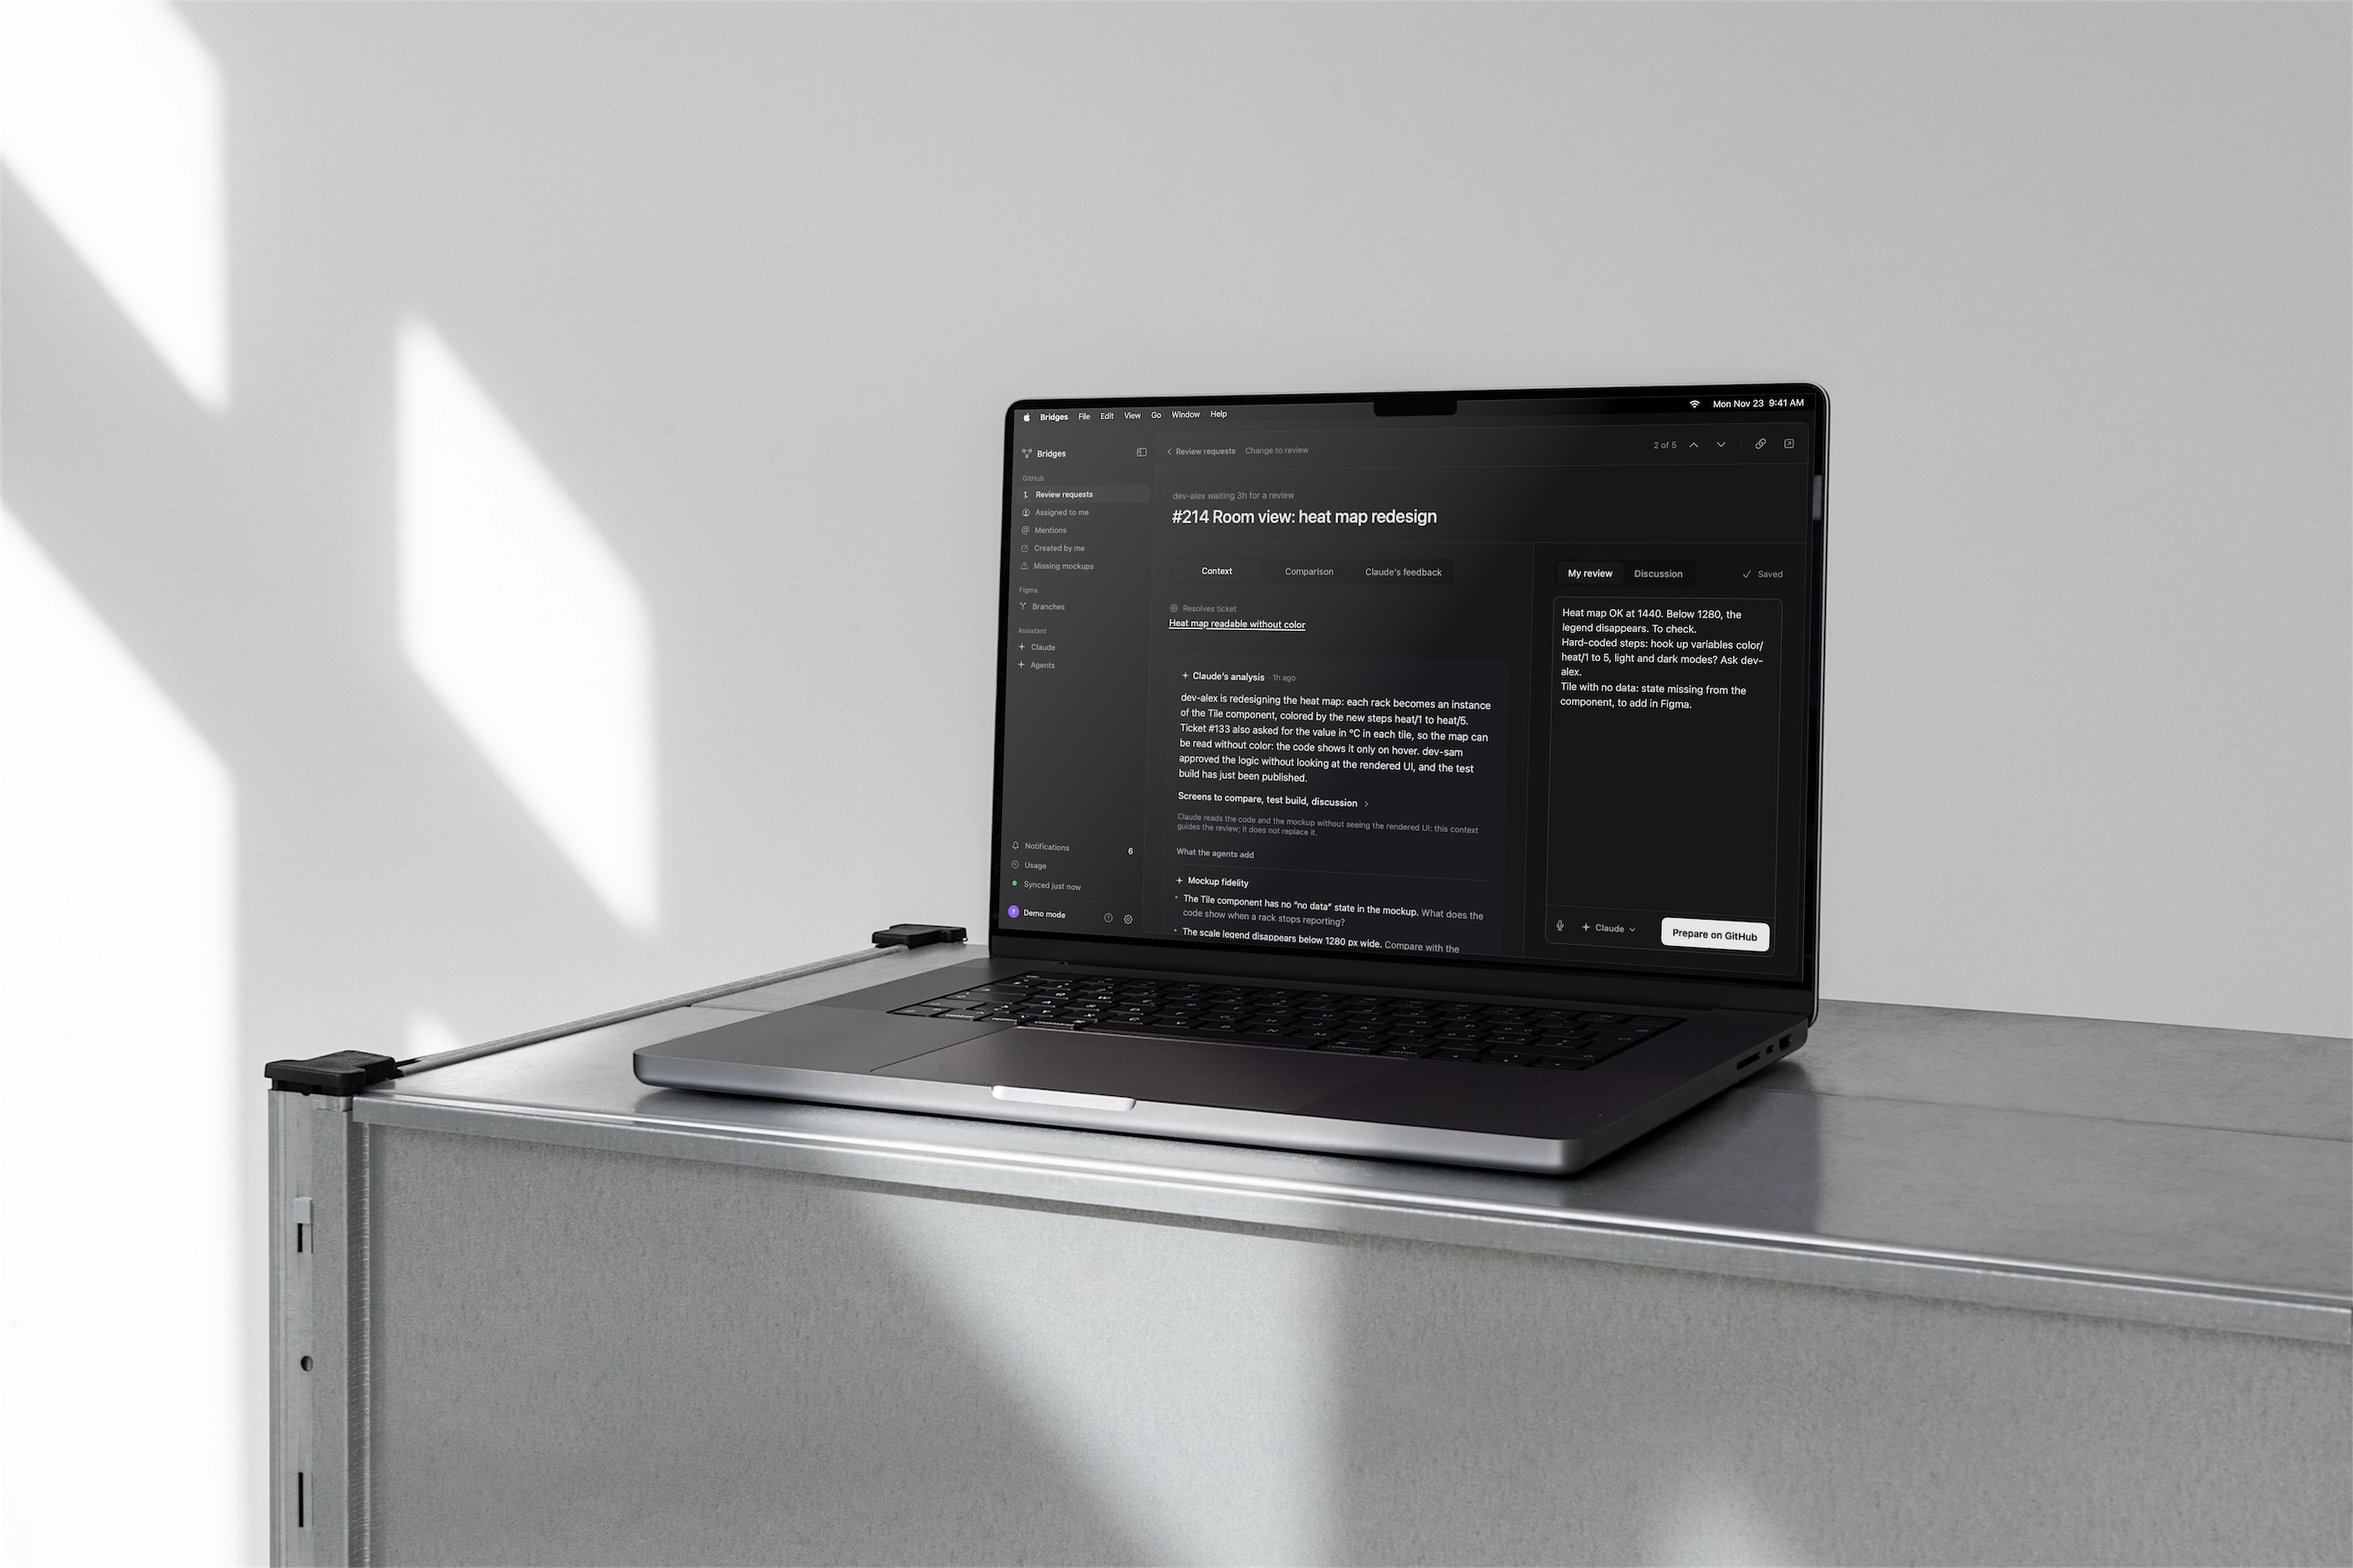
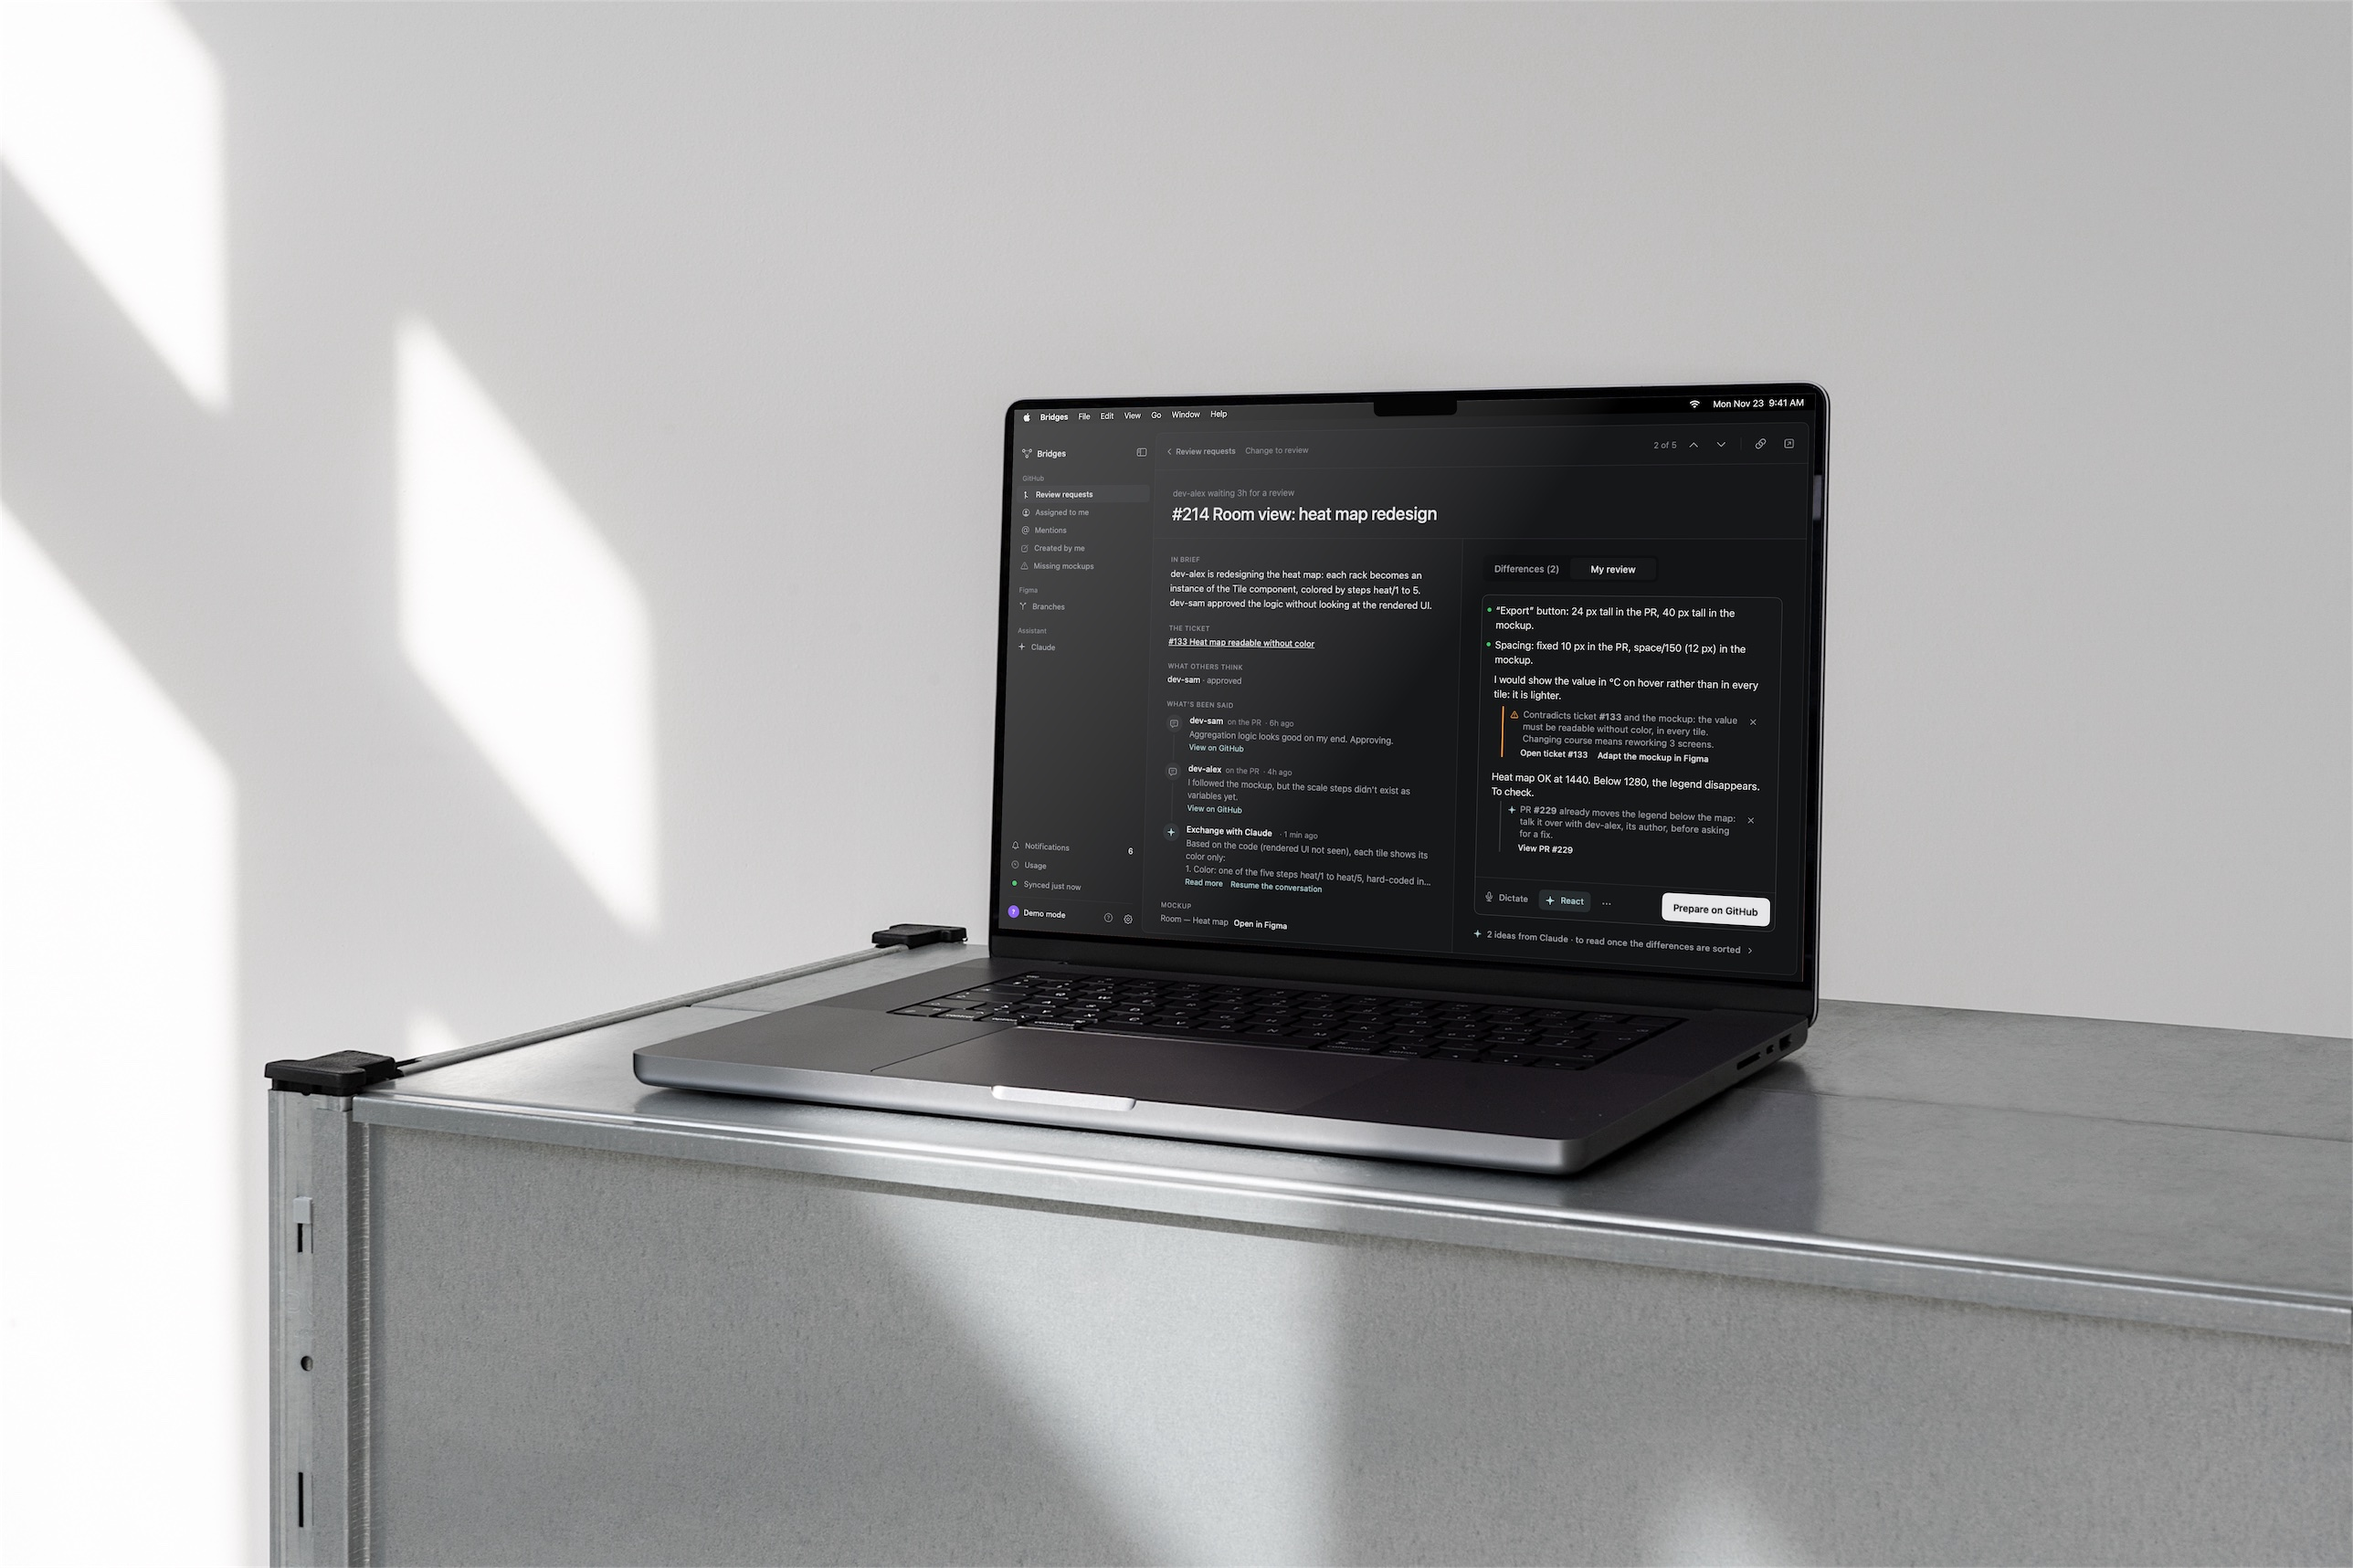
Page de présentation

Changed region(s): [[0.4969, 0.3087, 0.7764, 0.6174]]

diff --git a/CHANGELOG.md b/CHANGELOG.md
@@ -3,6 +3,17 @@
 Une version est publiée chaque lundi à 7 h. Chaque version est signée « Developer ID » et notarisée par Apple ; l'application
 propose elle-même son installation.
 
+## 0.17.0 — 20 novembre 2026
+
+- **Relecture avec Claude** : une PR se relit en deux moitiés. La séparation se fait glisser ; un double-clic revient au 50/50. À gauche, le contexte, qui défile seul : en bref, le ticket, les avis, ce qui a été dit (en entier), la maquette, ce qui se passe autour. À droite, deux onglets : « Écarts » (une liste à trier, aussi longue soit-elle) et « Ma relecture », sur toute la hauteur.
+- **Écarts avec la maquette** : Claude relève seulement ce qui se vérifie (une taille, un espacement, un token, une variante, un état). Il précise si l'écart a été vu sur la version de test ou lu dans le code. Chaque écart se garde (il entre dans la relecture, marqué d'un point vert) ou s'écarte. Le relevé se lance à la main, comme la synchro ; la pastille passe à l'orange quand la PR a changé depuis.
+- **Réagir** : Claude met en contexte ce qui est écrit ou dicté, en cartes sous les paragraphes. Exemples : une PR déjà en cours sur le même sujet et la personne à qui en parler, ou une remarque qui contredit le ticket ou la maquette, avec ce que changer d'avis impliquerait. « Adapter la maquette dans Figma » lui fait modifier le fichier. La relecture reste écrite par le designer.
+- **Idées de Claude** : alternatives et conseils, repliés sous la relecture, à lire une fois les écarts triés. Chaque idée s'ajoute à la relecture d'un clic.
+- **Préparer sur GitHub** : un écart gardé lu dans le code devient un commentaire sur sa ligne dans la review en attente. La mise en forme pour GitHub suit la langue de l'équipe sur le dépôt (anglais ou français), quelle que soit celle des notes.
+- **Relevé automatique** (facultatif, Réglages › Claude) : à la première ouverture du matin (ou à 10 h si Bridges est déjà ouvert), puis à 14 h 30. Il concerne les PR qui attendent un avis et ont changé depuis le dernier relevé.
+- **Maquettes en liens** : plus d'aperçu d'image, qui montrait souvent la couverture du fichier. À la place : le nom de l'écran et « Ouvrir dans Figma ».
+- **Claude mieux rangé ailleurs** : sur un ticket, une mention ou une branche, la colonne de gauche sert à comprendre (Contexte, Analyse), celle de droite à agir (notes, Claude). Une seule entrée Claude dans la barre latérale (Discussions, Agents), et un seul libellé dans les menus : « Demander à Claude ».
+
 ## 0.16.1 — 20 novembre 2026
 
 - **Nouvelle numérotation** : Bridges passe en 0.x. La version 1.0 viendra quand l'application sera aboutie ; d'ici là, chaque version avance d'un cran (0.17, 0.18…). Les versions précédentes sont renumérotées : la 1.16 devient la 0.16, et ainsi de suite.

diff --git a/CHANGELOG.en.md b/CHANGELOG.en.md
@@ -3,6 +3,17 @@
 A version is published every Monday at 7 a.m. Each version is signed with “Developer ID” and notarized by Apple; the app
 offers to install it on its own.
 
+## 0.17.0 — November 20, 2026
+
+- **Reviewing with Claude**: a PR is reviewed in two halves. The divider can be dragged; a double-click returns to 50/50. On the left, the context, which scrolls on its own: in brief, the ticket, the reviews, what has been said (in full), the mockup, what is happening around it. On the right, two tabs: “Differences” (a list to sort, however long) and “My review”, at full height.
+- **Differences with the mockup**: Claude only reports what can be verified (a size, a spacing, a token, a variant, a state). It says whether the difference was seen in the test build or read in the code. Each difference is kept (it goes into the review, marked with a green dot) or set aside. The check is started by hand, like the sync; the dot turns orange when the PR has changed since.
+- **React**: Claude puts what is written or dictated in context, as cards under the paragraphs. For example: a PR already in progress on the same subject and the person to talk to, or a remark that contradicts the ticket or the mockup, with what changing course would involve. “Adapt the mockup in Figma” has it edit the file. The review is still written by the designer.
+- **Ideas from Claude**: alternatives and advice, collapsed under the review, to read once the differences are sorted. Each idea is added to the review in one click.
+- **Prepare on GitHub**: a kept difference read in the code becomes a comment on its line in the pending review. GitHub formatting follows the language the team uses on the repository (English or French), whatever the language of the notes.
+- **Automatic check** (optional, Settings › Claude): at the first launch in the morning (or at 10 AM if Bridges is already open), then at 2:30 PM. It covers PRs waiting for a review that have changed since the last check.
+- **Mockups as links**: no more image preview, which often showed the file’s cover. Instead: the screen name and “Open in Figma”.
+- **Claude better organized elsewhere**: on a ticket, a mention, or a branch, the left column is for understanding (Context, Analysis) and the right one for acting (notes, Claude). A single Claude entry in the sidebar (Conversations, Agents), and a single label in menus: “Ask Claude”.
+
 ## 0.16.1 — November 20, 2026
 
 - **New numbering**: Bridges moves to 0.x. Version 1.0 will come when the app is complete; until then, each version moves up one step (0.17, 0.18…). Earlier versions are renumbered: 1.16 becomes 0.16, and so on.
